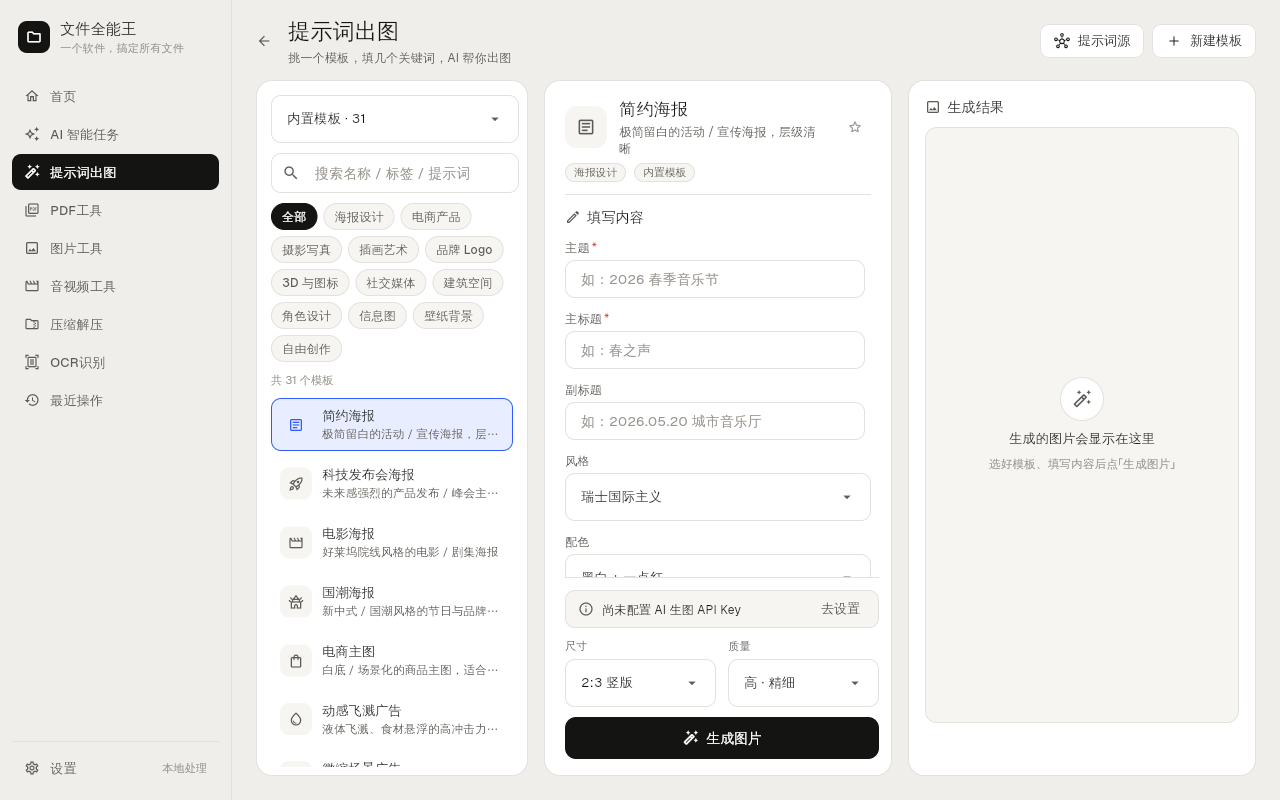
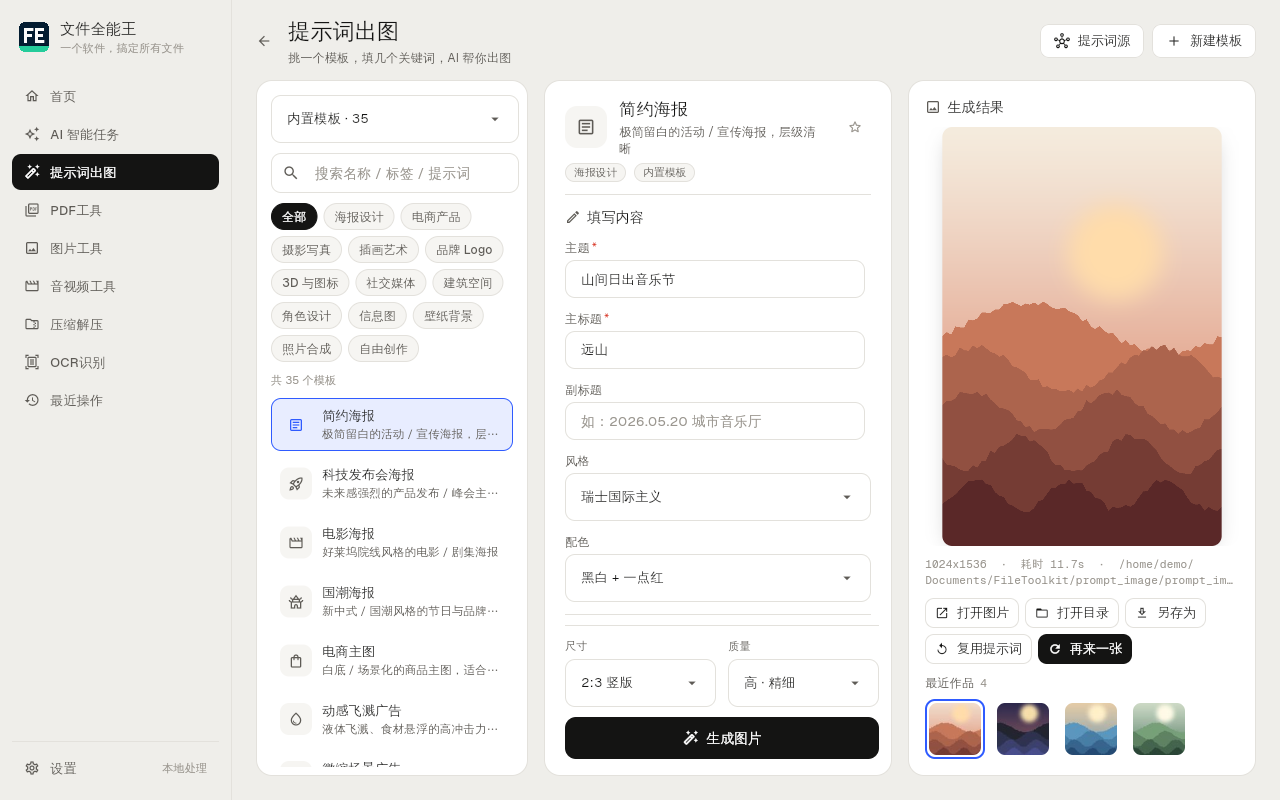
docs: README 更新界面截图，补上参考图生图与看图器
截图按 v1.6.0 当前界面重拍（新图标、提示词出图生成结果、看图器、设置里的检查更新），
功能表模板数改为 13 类 35 个。

Claude-Session: https://claude.ai/code/session_015iNDnxuTVupTXhe4U7aZyZ

diff --git a/README.md b/README.md
@@ -57,8 +57,9 @@
 | | 解压 RAR | 🔧 unrar |
 | **文字识别** | 从图片、扫描版 PDF 识别文字（中文 / 英文 / 日文） | 🔧 Tesseract |
 | | 提取 PDF 内嵌文字 | ✅ |
-| **AI** | 提示词出图（OpenAI Images 兼容接口），生成结果在页面内直接预览，保留最近生成记录 | 🔧 API Key |
-| | 12 类 31 个内置模板；风格增强词与反向提示词；「我的模板」支持 `{变量}`、收藏与导出 | 🔧 API Key |
+| **AI** | 提示词出图（OpenAI Images 兼容接口），可附最多 8 张参考图生成合照、婚纱照、集体照；保留最近作品 | 🔧 API Key |
+| | 全窗口看图器：滚轮缩放、拖动平移、双击切换 1:1 原图像素，左右键切换作品，右键复制图片 | 🔧 API Key |
+| | 13 类 35 个内置模板；风格增强词与反向提示词；「我的模板」支持 `{变量}`、收藏与导出 | 🔧 API Key |
 | | 一键导入开源提示词库（Awesome GPT-4o Images、Awesome GPT Image 2 Prompts，注明出处），或从网址 / JSON / CSV / Markdown 导入 | 🔧 API Key |
 | | 智能入口：一句话描述需求（如「图片转 PDF 再加水印」），拆成步骤并带着文件打开对应工具 | ✅ |
 | **应用** | 全局功能搜索、最近操作记录、偏好设置；批量处理中某个文件失败不影响其余文件，输出不会覆盖已有文件 | ✅ |
@@ -83,10 +84,20 @@
 |---|---|
 | <img src="docs/screenshots/home-light.png" alt="首页（浅色）"> | <img src="docs/screenshots/home-dark.png" alt="首页（深色）"> |
 | <img src="docs/screenshots/prompt-image-light.png" alt="提示词出图（浅色）"> | <img src="docs/screenshots/prompt-image-dark.png" alt="提示词出图（深色）"> |
+| <img src="docs/screenshots/viewer-light.png" alt="看图器（浅色）"> | <img src="docs/screenshots/viewer-dark.png" alt="看图器（深色）"> |
 
-| PDF 工作台 | 操作记录 | 设置 |
+| PDF 工作台 | 操作记录 | 设置与检查更新 |
 |---|---|---|
-| <img src="docs/screenshots/pdf.png" alt="PDF 工作台"> | <img src="docs/screenshots/history.png" alt="操作记录"> | <img src="docs/screenshots/settings.png" alt="设置"> |
+| <img src="docs/screenshots/pdf.png" alt="PDF 工作台"> | <img src="docs/screenshots/history.png" alt="操作记录"> | <img src="docs/screenshots/settings.png" alt="设置与检查更新"> |
+
+<details>
+<summary>应用内更新</summary>
+
+| 发现新版本 | 下载中 | 重启并更新 |
+|---|---|---|
+| <img src="docs/screenshots/update/available-light.jpg" alt="发现新版本"> | <img src="docs/screenshots/update/downloading-light.jpg" alt="下载中"> | <img src="docs/screenshots/update/ready-dark.jpg" alt="重启并更新"> |
+
+</details>
 
 ## 从源码运行
 
